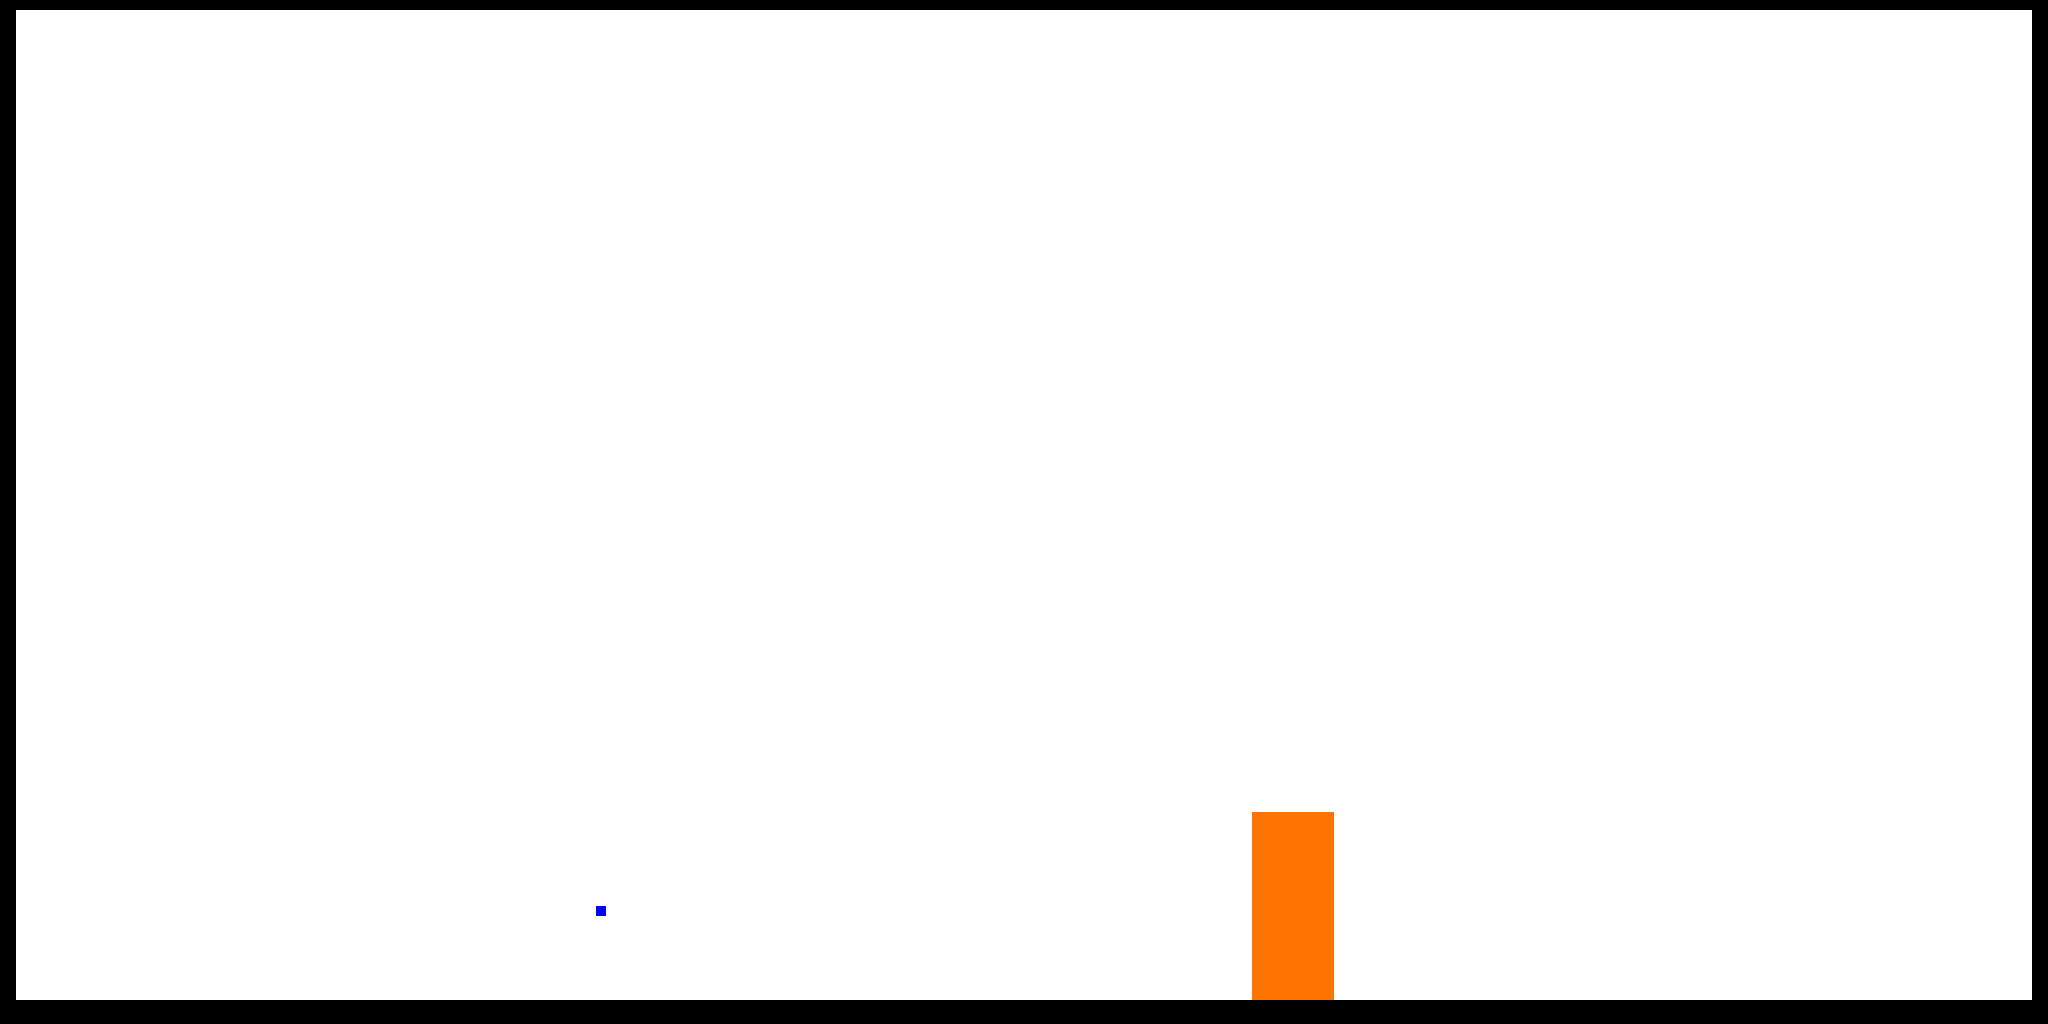
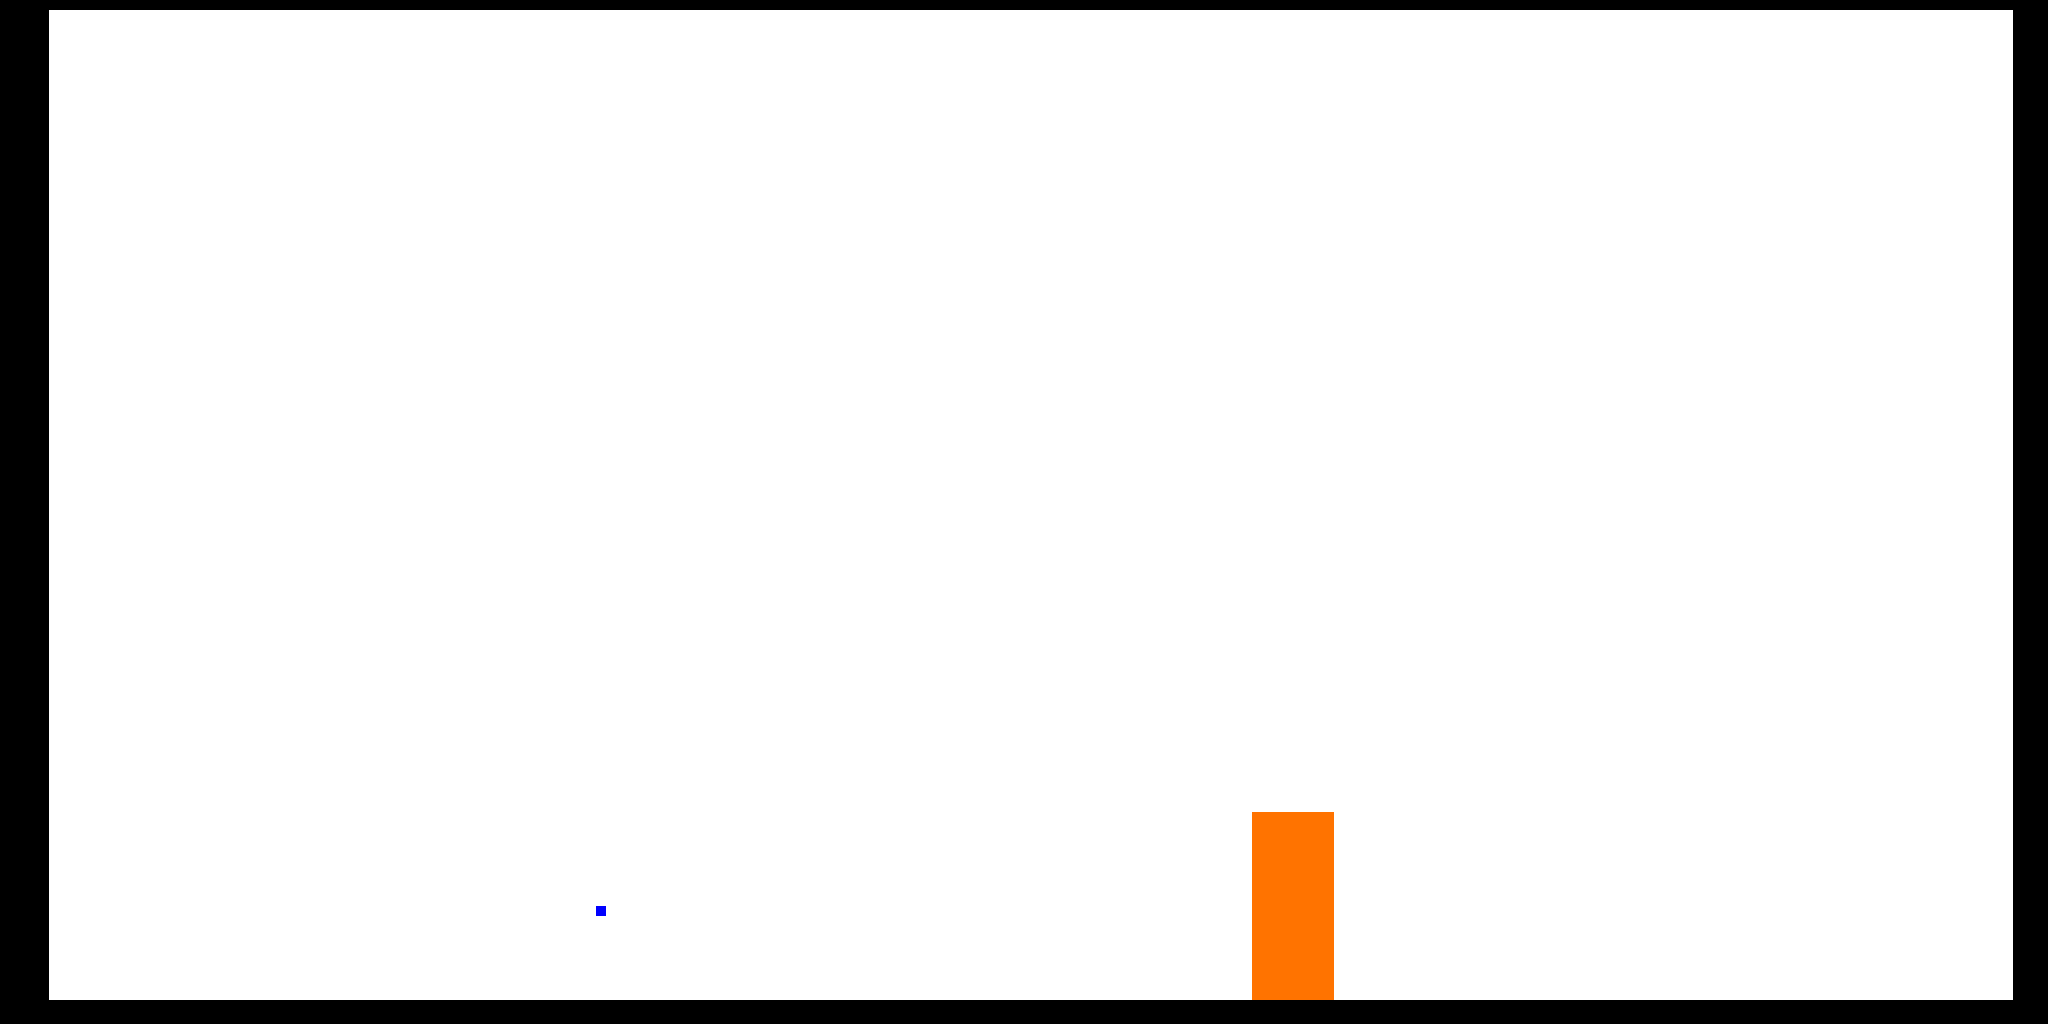
Исправлен баг, почищен код

Changed region(s): [[0.0, 0.0, 0.0312, 1.0], [0.9688, 0.0, 1.0, 0.9688]]

diff --git a/init.py b/init.py
@@ -80,8 +80,8 @@ pygame.mixer.set_num_channels(18)
 
 pygame.display.set_caption('Slack')
 info = pygame.display.Info()
-# screen = pygame.display.set_mode((info.current_w, info.current_h), pygame.FULLSCREEN)
-screen = pygame.display.set_mode((info.current_w - 100, info.current_h - 100))  # На время тестов лучше оконный режим
+screen = pygame.display.set_mode((info.current_w, info.current_h), pygame.FULLSCREEN)
+# screen = pygame.display.set_mode((info.current_w - 100, info.current_h - 100))  # На время тестов лучше оконный режим
 bullet_icon = load_image('bullet\\bullet.png')
 
 camera = Camera(screen)
@@ -97,7 +97,7 @@ else:
 sounds = {
     'click': pygame.mixer.Sound('data\\sounds\\click.wav'),
     'hover': pygame.mixer.Sound('data\\sounds\\hover.wav'),
-    'shoot': pygame.mixer.Sound('data\\sounds\\shoot.wav'),  # Пока что звук один, ибо оружий как таковых нет
+    'shoot': pygame.mixer.Sound('data\\sounds\\shoot.wav'),
     'death_screen': pygame.mixer.Sound('data\\sounds\\death_screen.wav'),
     'rage_on': pygame.mixer.Sound('data\\sounds\\rage_activate.wav')
 }

diff --git a/player_class.py b/player_class.py
@@ -397,8 +397,6 @@ class Bullet(Entity):
 
     def update(self, **kwargs):
         self.map_rect.x += self.base_speed * self.direction.x
-        # Поскольку у пули анимаций нет, то просто переписываем координаты с прямоугольника карты на прямоугольник
-        # изображения. С врагом пока что аналогично, потому что там тоже нет анимаций (пока что)
         self.rect.x = self.map_rect.x
         if self.check_for == 'enemy':
             answer = self.kill_entity(kwargs['enemies'])
@@ -408,7 +406,6 @@ class Bullet(Entity):
             self.kill_entity(kwargs['player'])
 
         self.check_horizontal_collisions(kwargs['tiles'])
-        # Я думаю, что возможен вариант диагональных пуль. Потом посмотрим, как пойдёт, но было бы неплохо такое сделать
         self.check_vertical_collisions(kwargs['tiles'])
         if self.collisions['right'] or self.collisions['left']:
             self.kill()

diff --git a/particles.py b/particles.py
@@ -117,7 +117,6 @@ class DashFX:
         self.image = image
         self.image.set_alpha(255)
         self.start_pos = pos
-        # self.images.append(DashFX.BaseSprite(image, pos, self.camera))
 
     def set_end(self, pos):
         self.end_pos = pos
